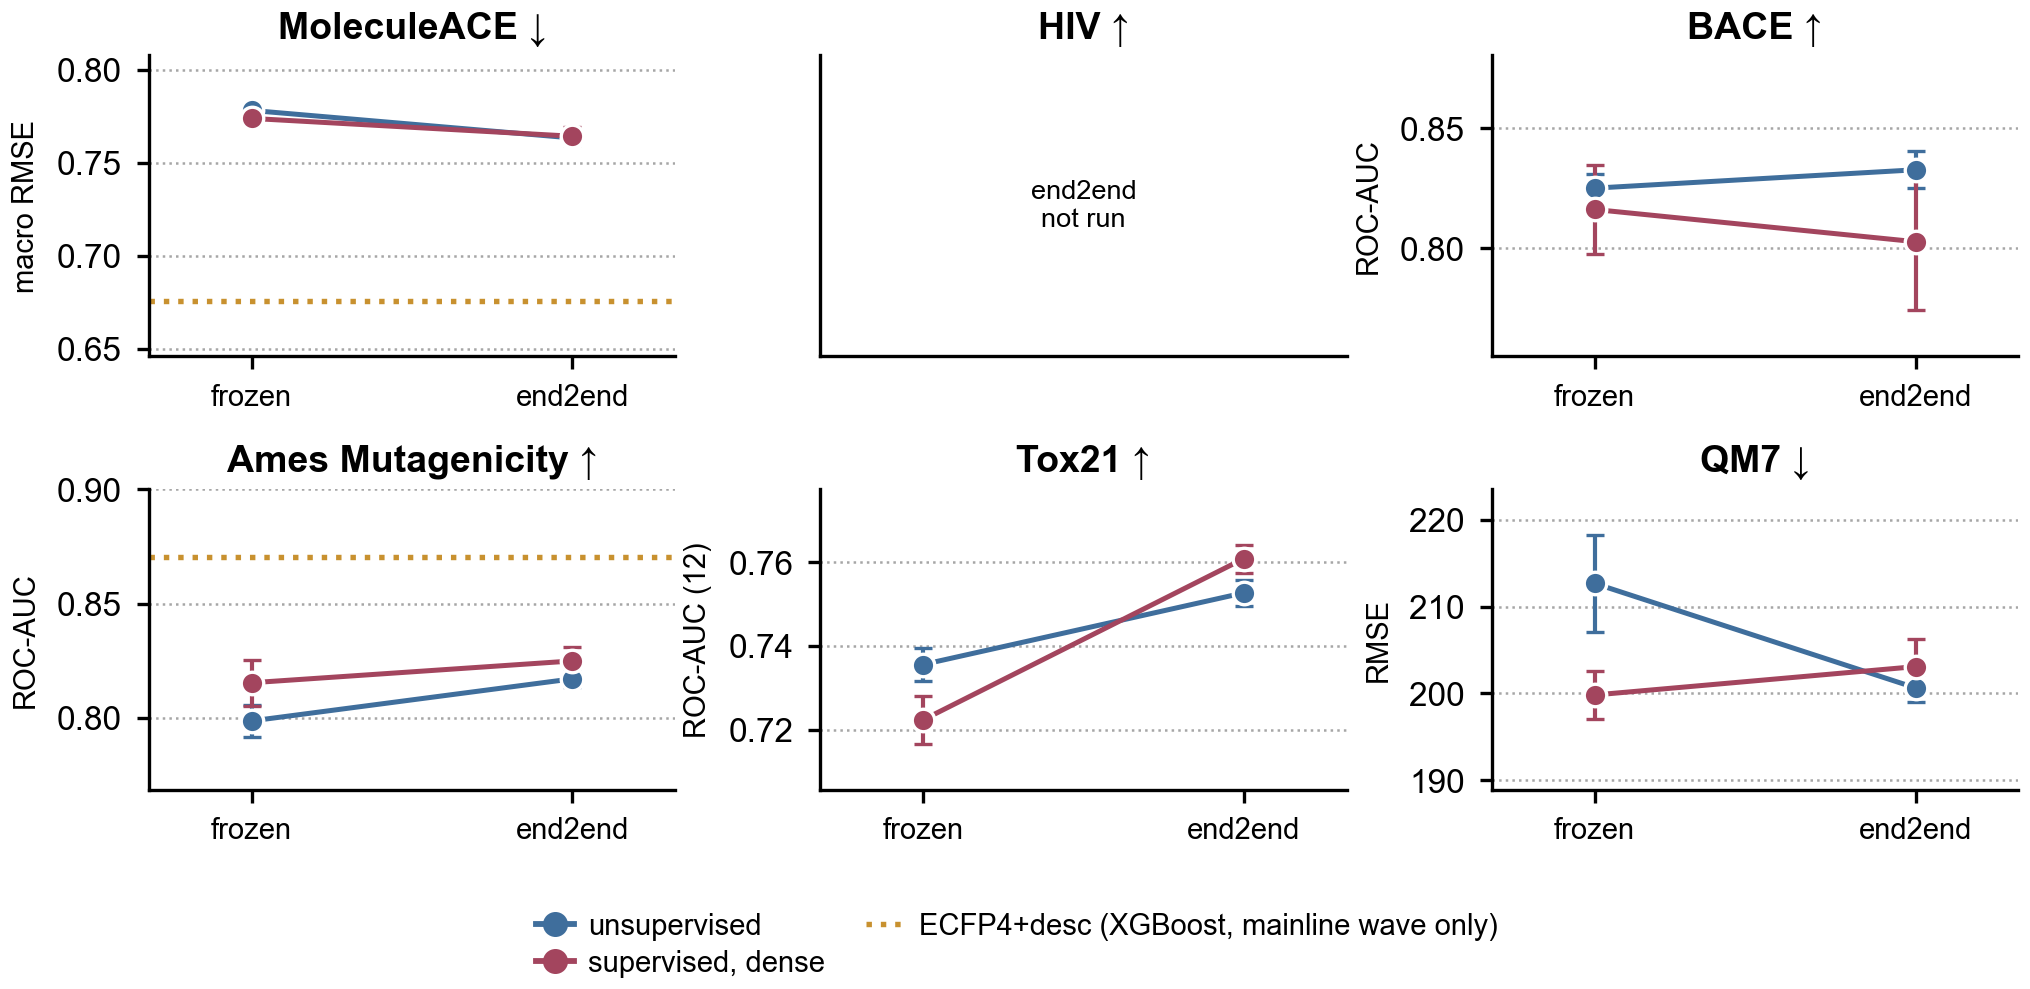
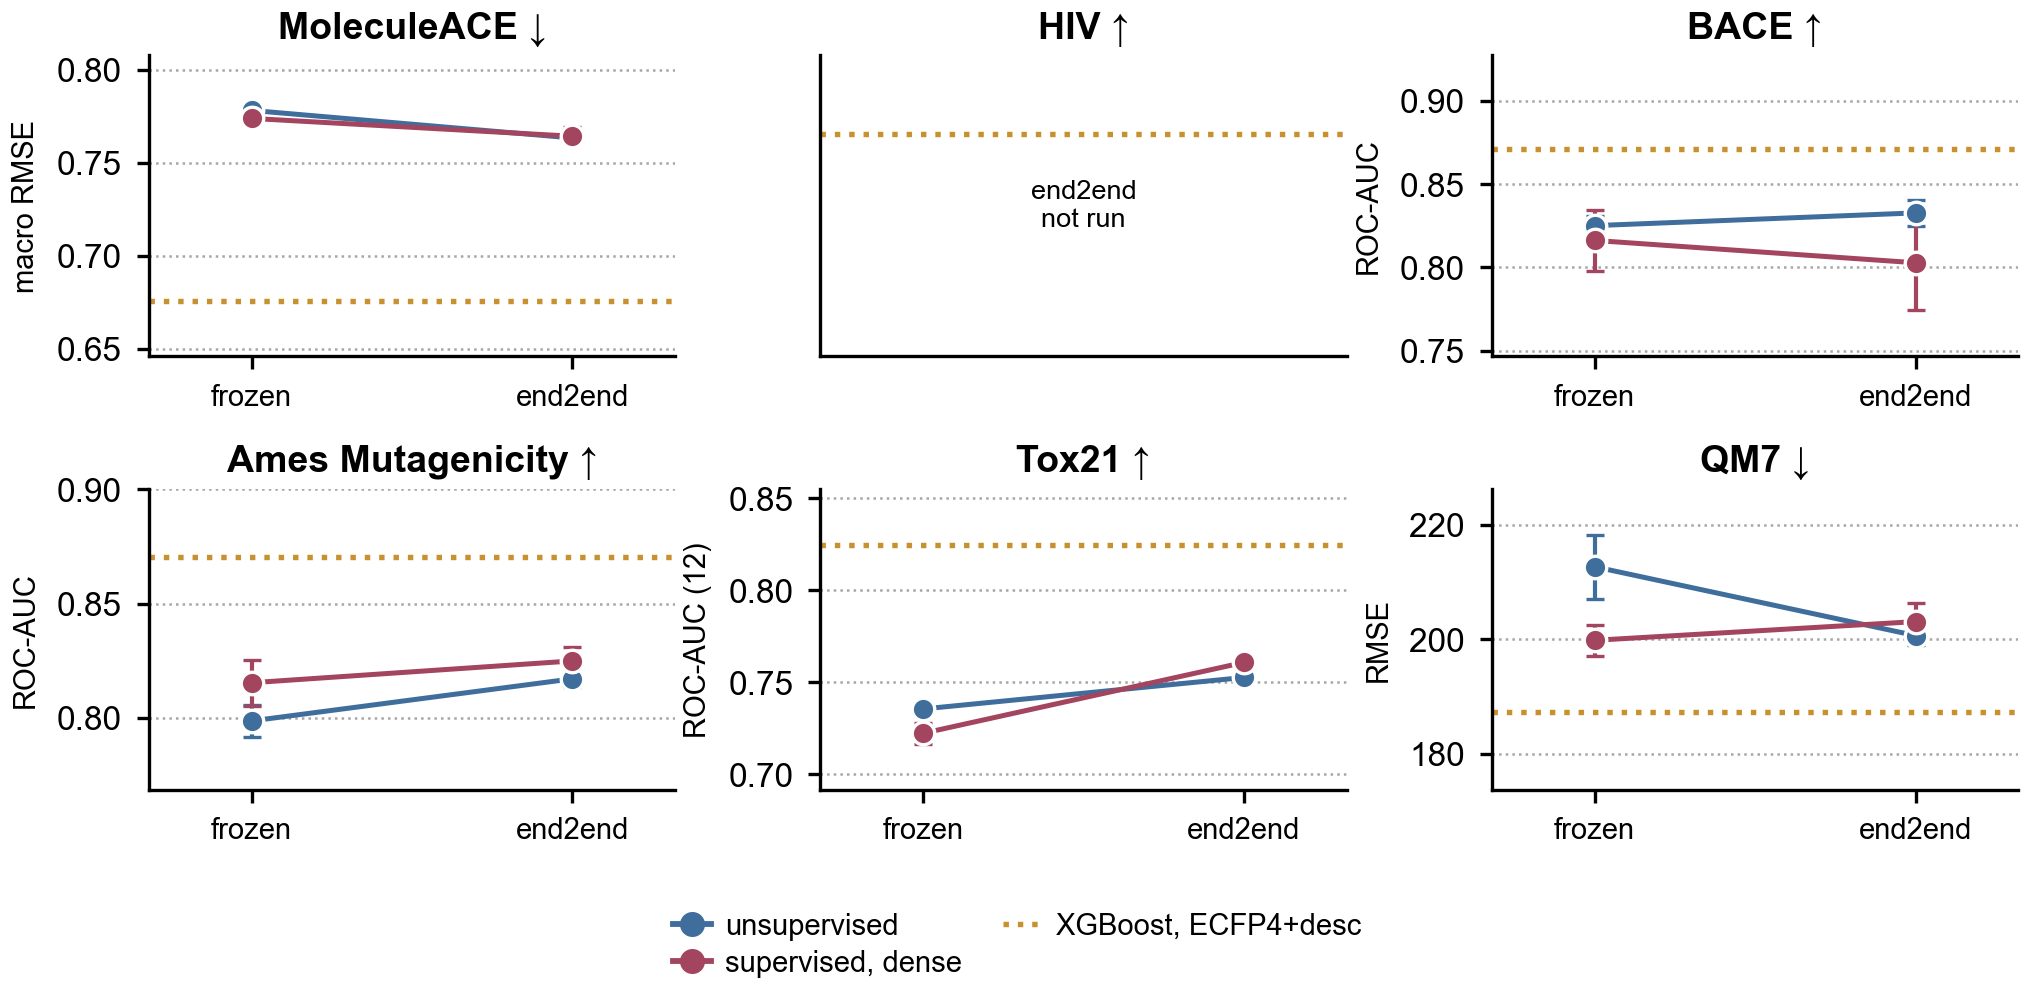
SI fig a: anchor line on every panel, labelled "XGBoost, ECFP4+desc"
User decision. The line now appears on all six panels including HIV, where it
is the only content and is what makes the empty panel worth printing.

The caveat moves into the docstring rather than the legend, and it must reach
the caption. The anchor exists only in the MAINLINE wave, while this figure's
BACE / Tox21 / QM7 / HIV cells come from the LABEL-EFFICIENCY wave at its 100%
fraction, and the two waves do not agree: the same frozen `unsupervised`
encoder reads 0.7356 here against 0.7961 mainline on Tox21, and 212.7 against
197.9 on QM7 -- up to 8%. On those four panels the line and the points are from
different protocols, so part of any gap is the protocol rather than the model.
On MoleculeACE and Ames the line is protocol-matched and the gap is real
(MoleculeACE equal to the digit, Ames within 0.25%).

The honest fix is a run, not a caveat: an fp+desc anchor under the
label-efficiency protocol. That wave currently carries only bare ecfp4, and on
a different scale for QM7, so there is nothing to substitute. Requested from
the compute session.

diff --git a/figures/SI_fig_a.py b/figures/SI_fig_a.py
@@ -61,22 +61,22 @@ SERIES = [("unsupervised",      "unsup",     "unsupervised"),
           ("supervised, dense", "sup_dense", "supervised, dense")]
 PROBES = ["frozen", "end2end"]
 
-# The classical anchor as a reference line (user 2026-08-19: "add as a golden dotted line XGBoost
-# on fp+desc so we can contextualize"). It is drawn ONLY on panels whose numbers come from the
-# MAINLINE wave, because that is the only wave the anchor was run in.
+# The classical anchor as a reference line, ON EVERY PANEL (user 2026-08-19).
 #
-# This is not caution for its own sake. SI fig a's BACE/Tox21/QM7 cells come from the
-# label-efficiency wave at its 100% fraction, and those differ from the mainline table by up to
-# 8% -- Tox21 0.7356 here against 0.7961 mainline, QM7 212.7 against 197.9. Dropping a mainline
-# anchor onto those panels would draw a line that beats both encoders by a wide margin and looks
-# like a result, when most of the gap is the protocol change. The figure's own docstring already
-# forbids comparing a value in one panel against a value in another; a reference line is exactly
-# that comparison, made to look authoritative.
+# READ THE CAVEAT BEFORE QUOTING A GAP FROM THIS LINE. The anchor exists only in the MAINLINE
+# wave, while this figure's BACE / Tox21 / QM7 / HIV cells come from the LABEL-EFFICIENCY wave at
+# its 100% fraction. Those two waves do not agree: the same frozen `unsupervised` encoder reads
+# 0.7356 here and 0.7961 in the mainline table on Tox21, 212.7 against 197.9 on QM7 -- up to 8%.
+# So on those panels the LINE AND THE POINTS COME FROM DIFFERENT PROTOCOLS, and a large part of
+# any gap between them is the protocol, not the model. On MoleculeACE and Ames the line is
+# protocol-matched and the gap is real: checked rather than assumed, MoleculeACE's frozen values
+# here equal the mainline table to the digit and Ames is within 0.25%.
 #
-# Where it IS drawn the identity was checked, not assumed: MoleculeACE's frozen values in this
-# table equal the mainline table to the digit, and Ames is within 0.25%.
+# The honest fix is a run, not a caveat -- an fp+desc anchor under the label-efficiency protocol.
+# The label-efficiency wave currently has only bare ecfp4, and on a different scale for QM7, so
+# there is nothing to read instead. Requested from the compute session 2026-08-19.
 ANCHOR_ARM = "ecfp_desc"
-ANCHOR_PROTOCOL = "mainline"
+MATCHED_PROTOCOL = "mainline"      # the only wave whose points the line can be quoted against
 
 
 def _anchor_values():
@@ -114,6 +114,12 @@ def main():
         for sp in ("top", "right"):
             ax.spines[sp].set_visible(False)
 
+        # Anchor first, so it is drawn even on panels with no encoder data (HIV) -- there the line
+        # is the only content and it is what makes the empty panel worth printing.
+        av = ANCHOR.get(p)
+        if av is not None:
+            ax.axhline(av, color=ARMS[ANCHOR_ARM]["color"], ls=":", lw=1.3, zorder=2)
+
         if g_all.empty:
             # Short enough to sit INSIDE a ~1.1in panel. The long form overran into both
             # neighbours' y-axis labels once the grid went to one row.
@@ -145,17 +151,13 @@ def main():
             vals += [v for v in ys if np.isfinite(v)]
             errs += es
 
-        proto = str(g_all.protocol.iloc[0]) if "protocol" in g_all else ""
-        av = ANCHOR.get(p) if proto == ANCHOR_PROTOCOL else None
-        if av is not None:
-            ax.axhline(av, color=ARMS[ANCHOR_ARM]["color"], ls=":", lw=1.3, zorder=2)
-            vals.append(av)
-
         ax.set_xticks([0, 1])
         ax.set_xticklabels(XTICKS, fontsize=FS["annot"])
         ax.set_xlim(-0.32, 1.32)
         ax.xaxis.set_minor_locator(ticker.NullLocator())
         ax.tick_params(axis="x", which="minor", bottom=False)
+        if av is not None:
+            vals.append(av)
         lo, hi = min(vals) - max(errs), max(vals) + max(errs)
         pad = 0.22 * max(hi - lo, 1e-9)
         y0, y1 = lo - pad, hi + pad
@@ -166,7 +168,7 @@ def main():
     handles = [Line2D([], [], color=ARMS[k]["color"], marker="o", ms=5.0, lw=1.4, label=lab)
                for _, k, lab in SERIES]
     handles.append(Line2D([], [], color=ARMS[ANCHOR_ARM]["color"], ls=":", lw=1.3,
-                          label=f"{ARMS[ANCHOR_ARM]['label']} (XGBoost, mainline wave only)"))
+                          label="XGBoost, ECFP4+desc"))
     fig.legend(handles=handles, loc="upper center", bbox_to_anchor=(0.5, 0.068), ncol=2,
                fontsize=FS["legend"], handletextpad=0.5, labelspacing=0.3, columnspacing=1.4,
                borderpad=0.0, frameon=False, labelcolor=INK)
